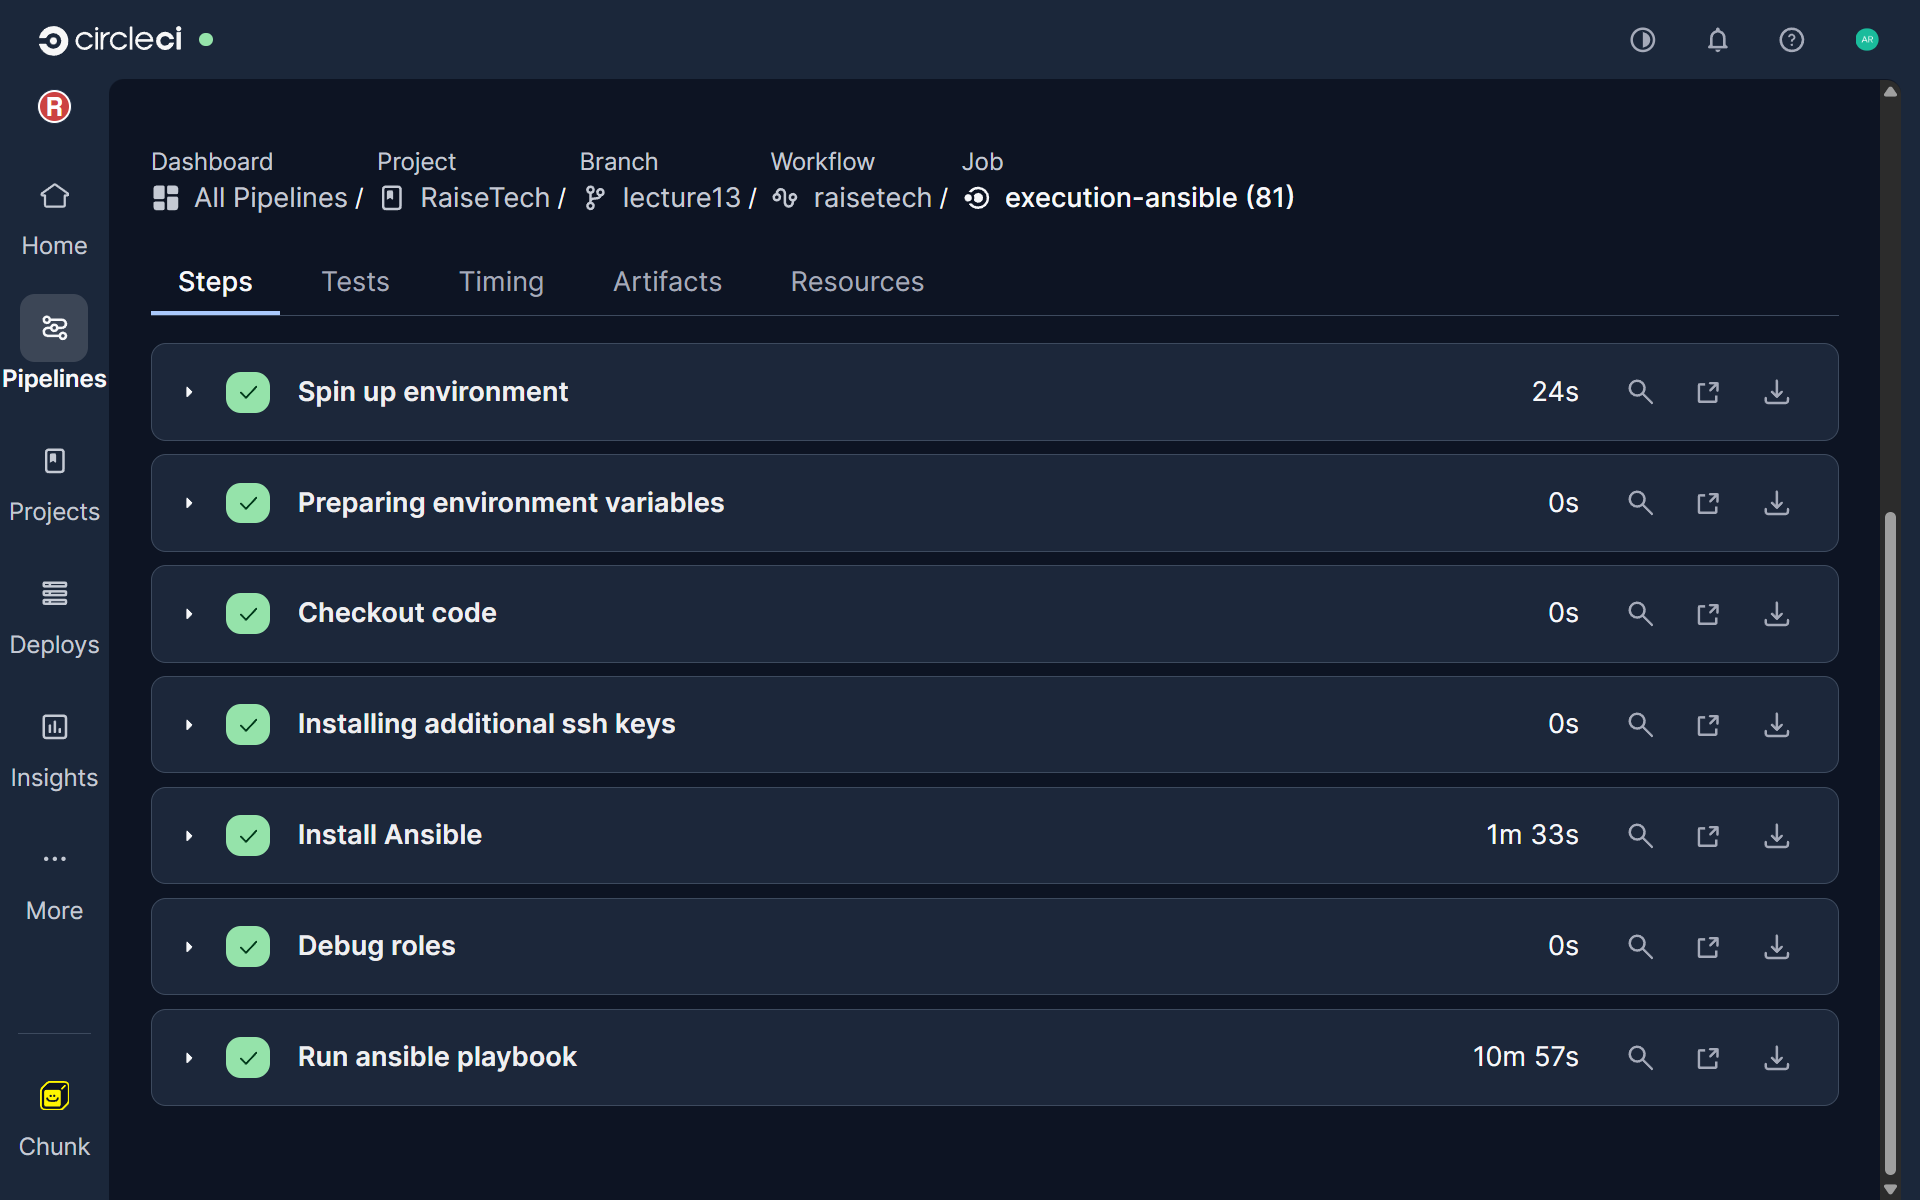
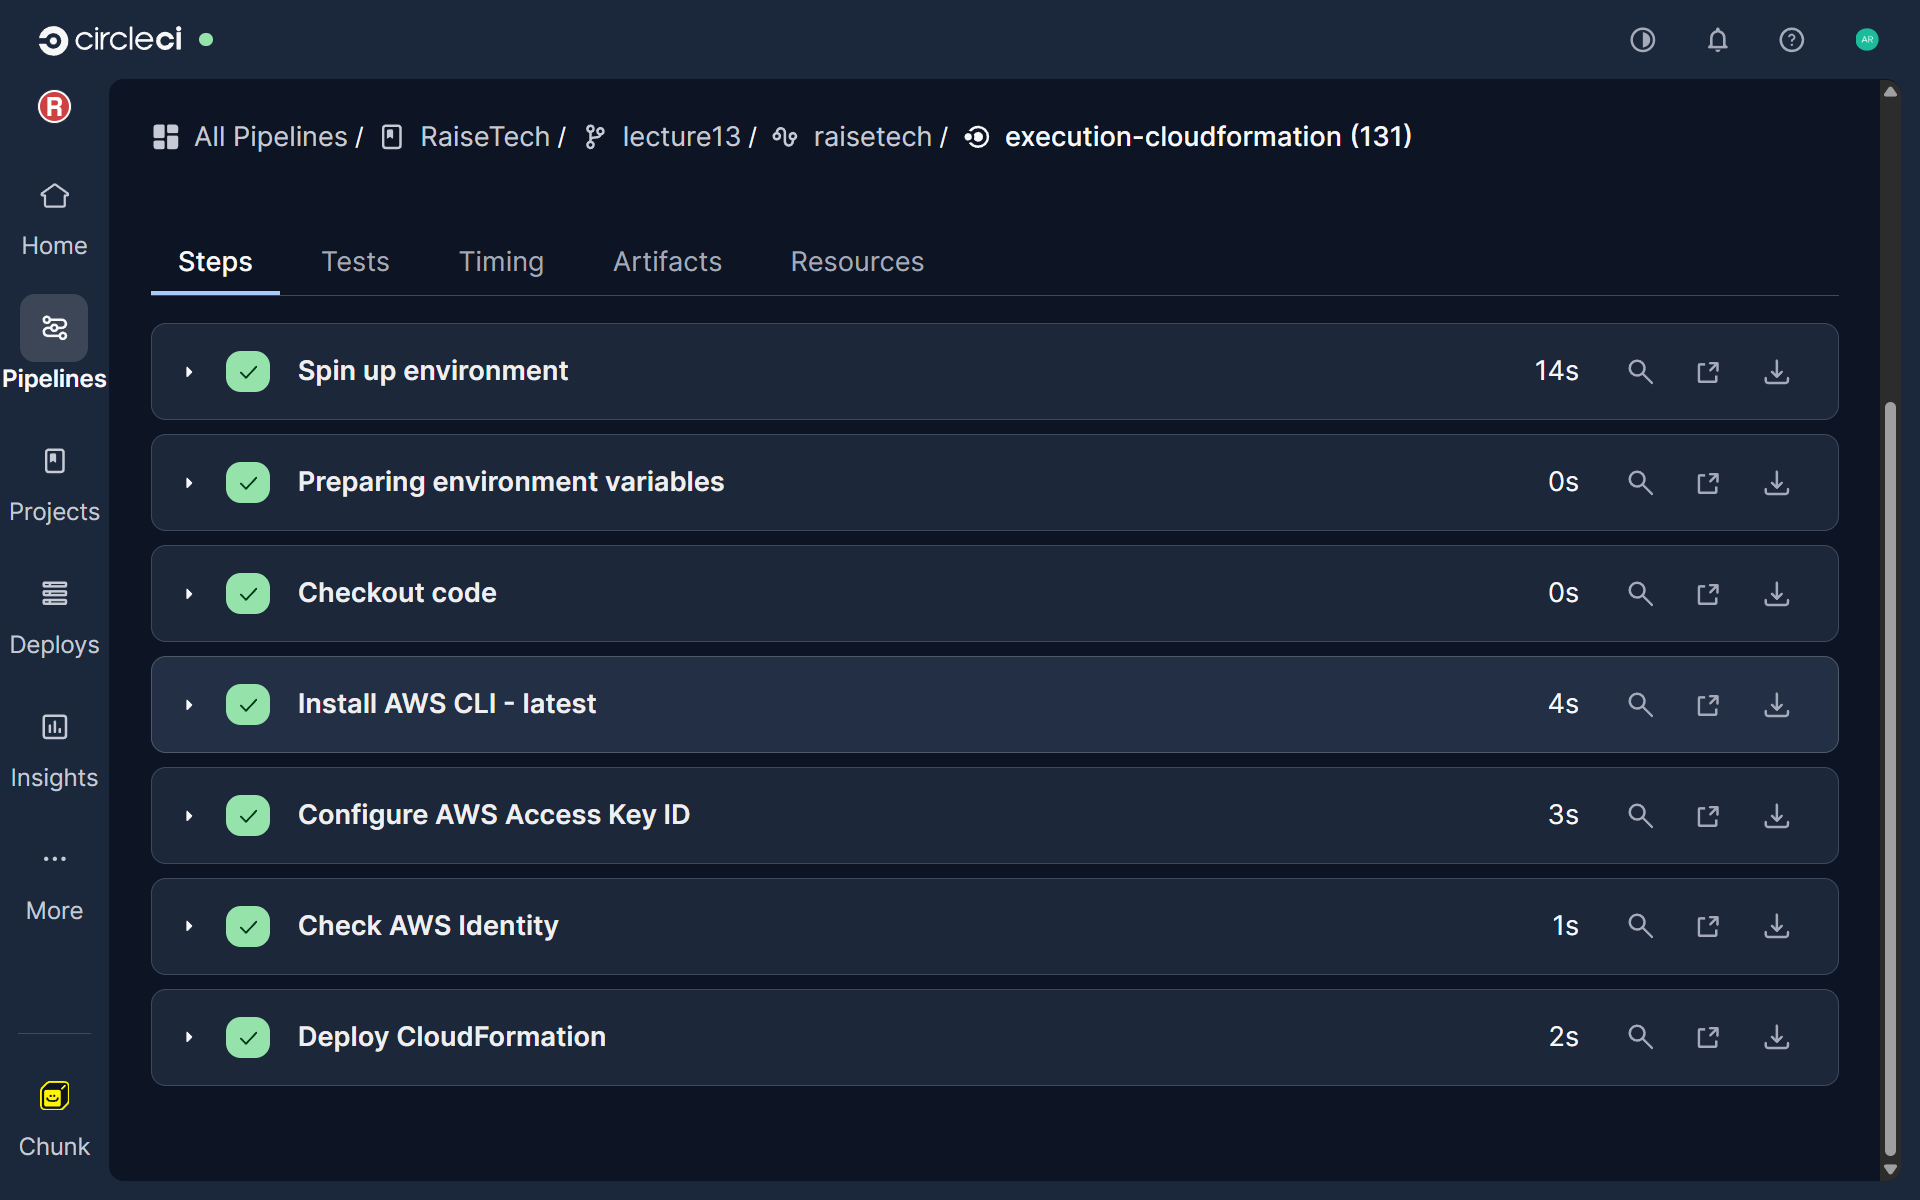
エビデンス画像の変更

diff --git a/lecture13.md b/lecture13.md
@@ -2,6 +2,8 @@
 
 ## CircleCIのサンプルにCloudfomationとServerSpecとAnsibleの処理を追加する
 
+### このワークフローはコミット f6373b9 に対するものです。
+
 - [ServerSpecとAnsibleの処理を追加した .circleci/config.yml](.circleci/config.yml)
 
 ### CircleCIでCloudfomationを実行
@@ -9,6 +11,8 @@
 #### 実行結果
 
 ![CircleCIでCloudfomationを実行](./images/lecture13-1.png)
+
+![CircleCIでCloudfomationを実行](./images/lecture13-2.png)
 
 - [cloudfomationのテンプレート](templates/multi-resource.yml)
 
@@ -34,7 +38,9 @@
 
 #### 実行結果
 
-![CircleCIでAnsibleを実行](./images/lecture13-2.png)
+![CircleCIでAnsibleを実行](./images/lecture13-3.png)
+
+![CircleCIでAnsibleを実行](./images/lecture13-4.png)
 
  - [inbentory](ansible/inventory/hosts.ini)
 
@@ -47,7 +53,9 @@
 
 #### 実行結果
 
-![CircleCIでServerSpecを実行](./images/lecture13-3.png)
+![CircleCIでServerSpecを実行](./images/lecture13-5.png)
+
+![CircleCIでServerSpecを実行](./images/lecture13-6.png)
 
 - [target/sample_spec.rb](serverspec/spec/target/sample_spec.rb)
 - [spec_helper.rb](serverspec/spec/spec_helper.rb)
@@ -57,5 +65,10 @@
 #### serverspecの実行ログ
  - [serverspecの実行ログ](https://app.circleci.com/pipelines/circleci/5yqRmomGxEF98JLra8cwCH/DTkXGQGSTf2n45aJZqVv5c/70/workflows/747a3d4e-044e-47a9-96e3-549fecb0d8a7/jobs/133)
 
- #### CircleCIの全通ログ
+ #### CircleCIでの全通ログ
+
+ ![CircleCIでの全通ログ](./images/lecture13-7.png)
+
+  ![CircleCIでの全通ログ](./images/lecture13-8.png)
+
 - [CircleCIの全通ログ](https://app.circleci.com/pipelines/circleci/5yqRmomGxEF98JLra8cwCH/DTkXGQGSTf2n45aJZqVv5c/70)
